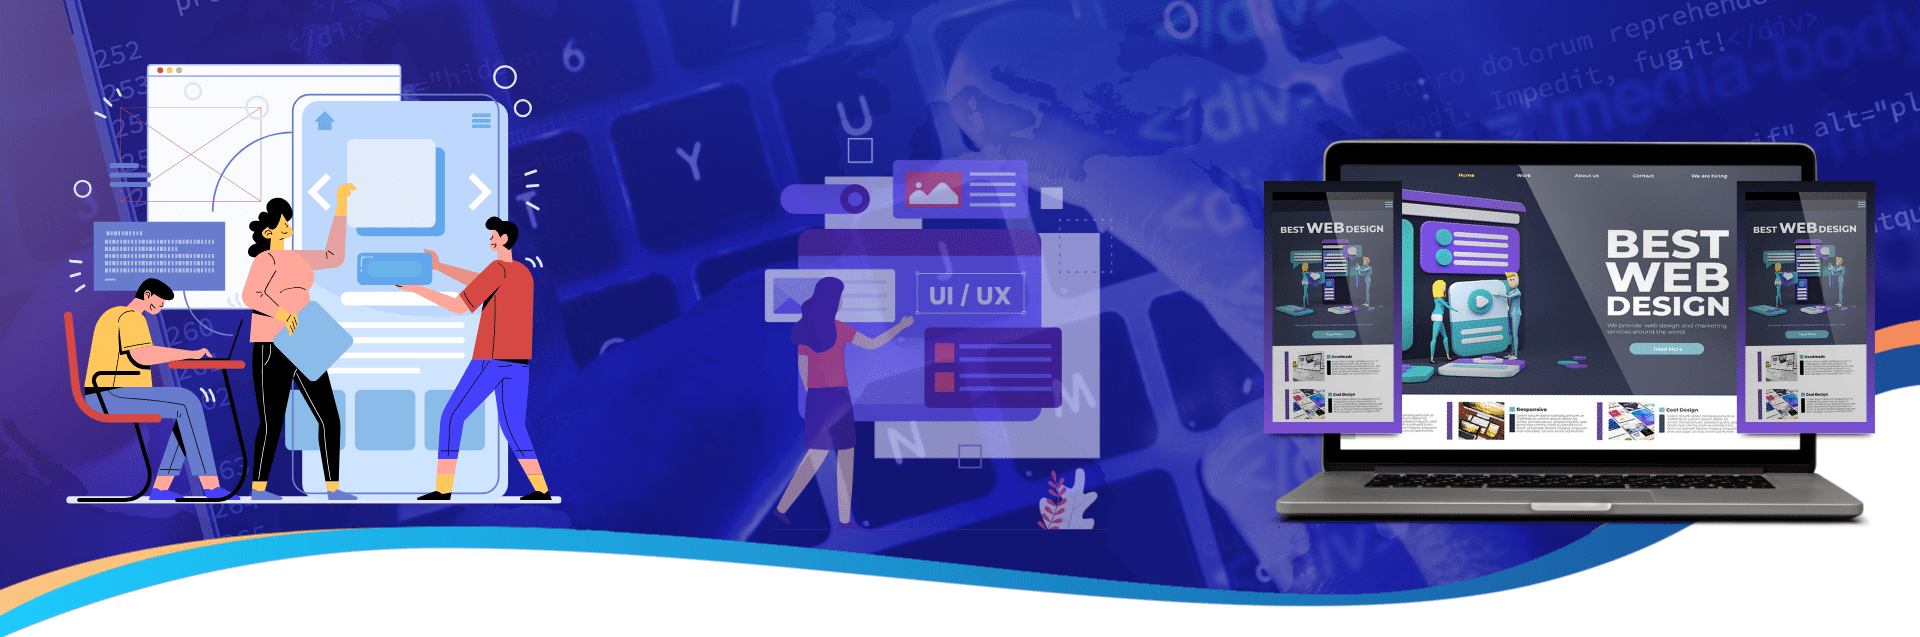
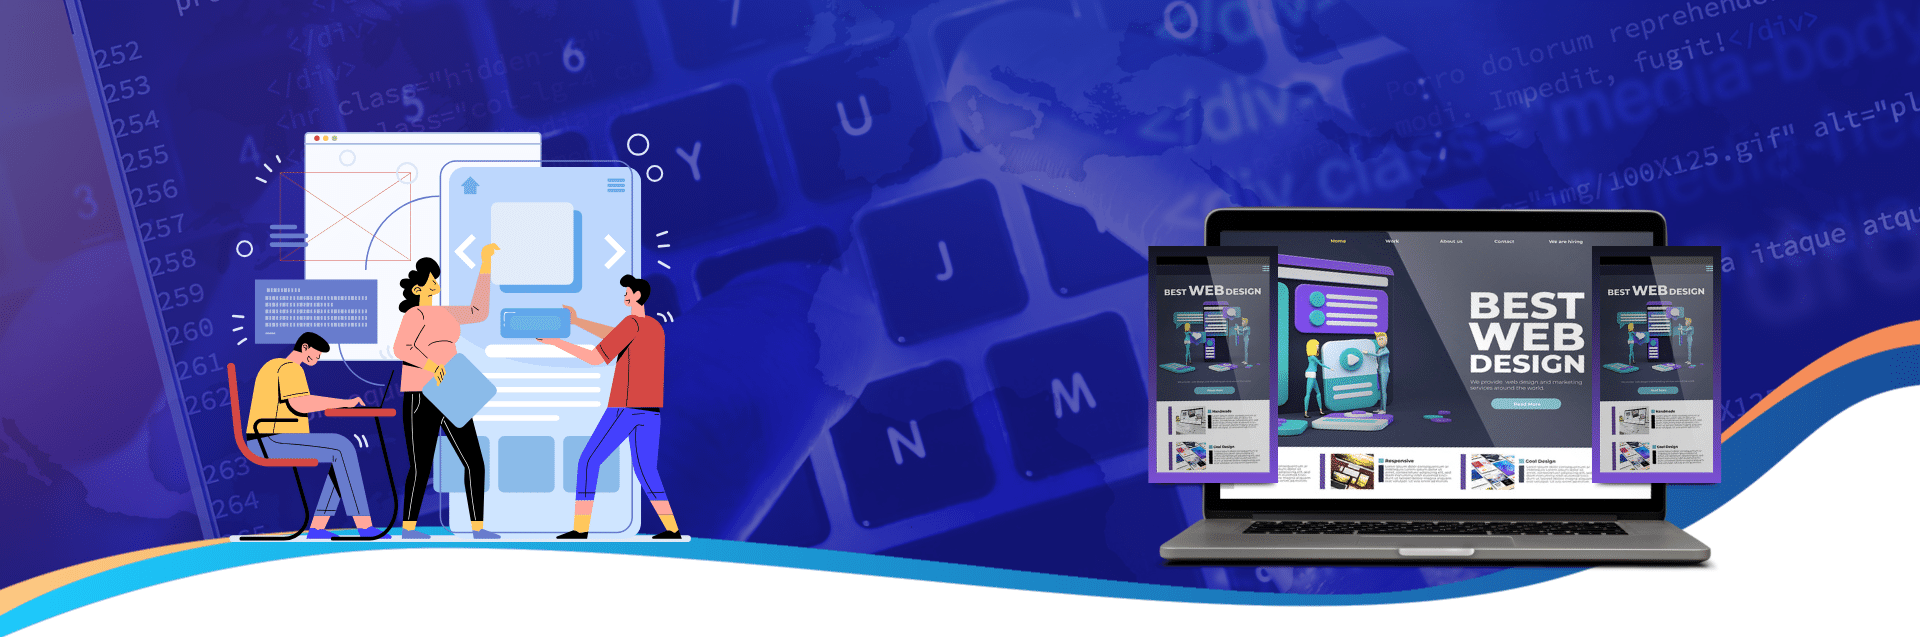
slider&service done

diff --git a/src/components/home/data/data.js b/src/components/home/data/data.js
@@ -1,6 +1,7 @@
 const SlideData = [
   {
     id: 1,
+    image: "/images/services/1.png",
     title: ["We Create Website", <br />, "For Your Business"],
     title1: [
       "Building websites that drive growth, engage customers,and prospects across the entire web That elevate your brand."
@@ -8,6 +9,7 @@ const SlideData = [
   },
   {
     id: 2,
+    image: "/images/services/4.png",
     title: ["We Provide Brilliant Marketing", <br />, "For Your Business"],
     title1: [
       "We build effective strategies to help you deliver  exceptional results",
@@ -17,6 +19,7 @@ const SlideData = [
   },
   {
     id: 3,
+    image: "/images/services/6.png",
     title: ["We Bring You", <br />, "#Top10 Using SEO"],
     title1: [
       "Unlock Your Business's Online Visibility. Drives your business Into #Top10 of search engine rankings.",
@@ -26,6 +29,7 @@ const SlideData = [
   },
   {
     id: 4,
+    image: "/images/services/1.png",
     title: ["MERN Stack Web ", <br />, "App Development"],
     title1: [
       "Digital Success with DevTechMasters: Your UltimateDestination for Top Rated MERN Stack Web App Development.",
@@ -35,6 +39,7 @@ const SlideData = [
   },
   {
     id: 5,
+    image: "/images/services/1.png",
     title: ["Backend Expert Golang", <br />, "Development Services"],
     title1: [
       "Digital Success with DevTechMasters: Your UltimateDestination for Top Rated MERN Stack Web App Development.",
@@ -44,6 +49,7 @@ const SlideData = [
   },
   {
     id: 6,
+    image: "/images/services/1.png",
     title: ["Python Django", <br />, "Web Development"],
     title1: [
       "Digital Success with DevTechMasters: Your UltimateDestination for Top Rated MERN Stack Web App Development.",
@@ -53,6 +59,7 @@ const SlideData = [
   },
   {
     id: 7,
+    image: "/images/services/1.png",
     title: [
       "Empower Your Business Laravel",
       <br />,
@@ -66,6 +73,7 @@ const SlideData = [
   },
   {
     id: 8,
+    image: "/images/services/4.png",
     title: ["WordPress and Wix ", <br />, "Web Solutions"],
     title1: [
       "Digital Success with DevTechMasters: Your UltimateDestination for Top Rated MERN Stack Web App Development.",
@@ -75,6 +83,7 @@ const SlideData = [
   },
   {
     id: 9,
+    image: "/images/services/4.png",
     title: [
       " Ecommerce Potential",
       <br />,

diff --git a/src/components/home/SlideZone.jsx b/src/components/home/SlideZone.jsx
@@ -2,7 +2,7 @@ import React from "react";
 import Button from "../contact/Button";
 import WebsiteBanner from "../../assets/images/main-banner/1.png";
 
-function SlideZone({ title, title1 }) {
+function SlideZone({ title, title1,image }) {
   return (
     <>
       <div className="slide">
@@ -38,7 +38,7 @@ function SlideZone({ title, title1 }) {
             <div className="image-column col-lg-6 col-md-12 col-sm-12">
               <div className="inner-column parallax-scene-2">
                 <div className="image" data-depth="0.30">
-                  <img src={WebsiteBanner} alt="Main Banner" />
+                  <img src={image} alt="Main Banner" />
                 </div>
               </div>
             </div>

diff --git a/src/components/services/ServiceDetails.jsx b/src/components/services/ServiceDetails.jsx
@@ -5,13 +5,14 @@ import ServiceData from "./data";
 import Error404 from "../404/NotFound";
 import {Helmet} from "react-helmet";
 
-function findServiceBySlug(data, slug) {
-  return data.find((item) => item.slug === slug);
-}
+
 export default function ServiceDetails() {
   const { slug } = useParams();
   const [data, setData] = useState(null);
 
+  function findServiceBySlug(data, slug) {
+    return data.find((item) => item.slug === slug);
+  }
   useEffect(() => {
     const service = findServiceBySlug(ServiceData, slug);
     if (service) {

diff --git a/src/components/home/slider.jsx b/src/components/home/slider.jsx
@@ -78,6 +78,7 @@ class Slider extends Component {
                 key={item.id}
                 title={item.title}
                 title1={item.title1}
+                image={item.image}
               />
             ))}
           </OwlCarousel>
